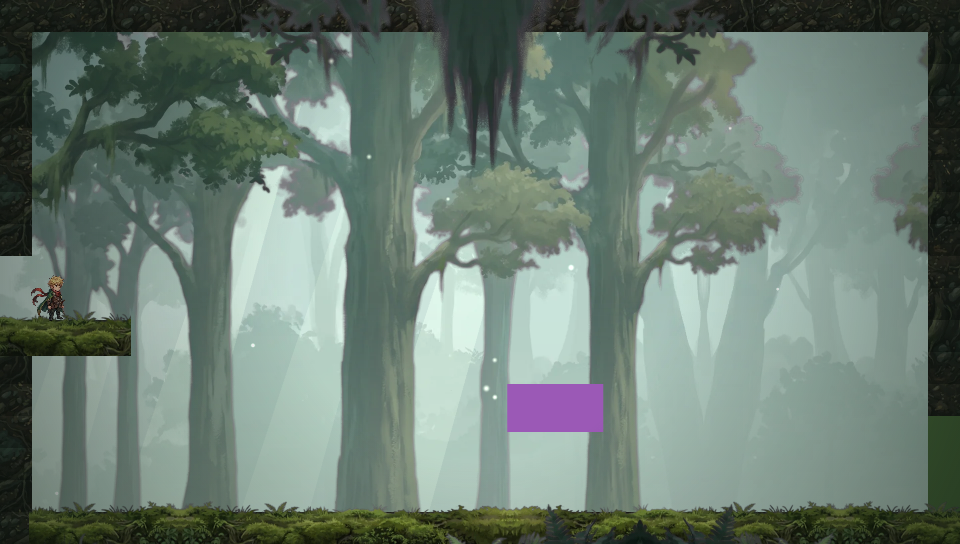
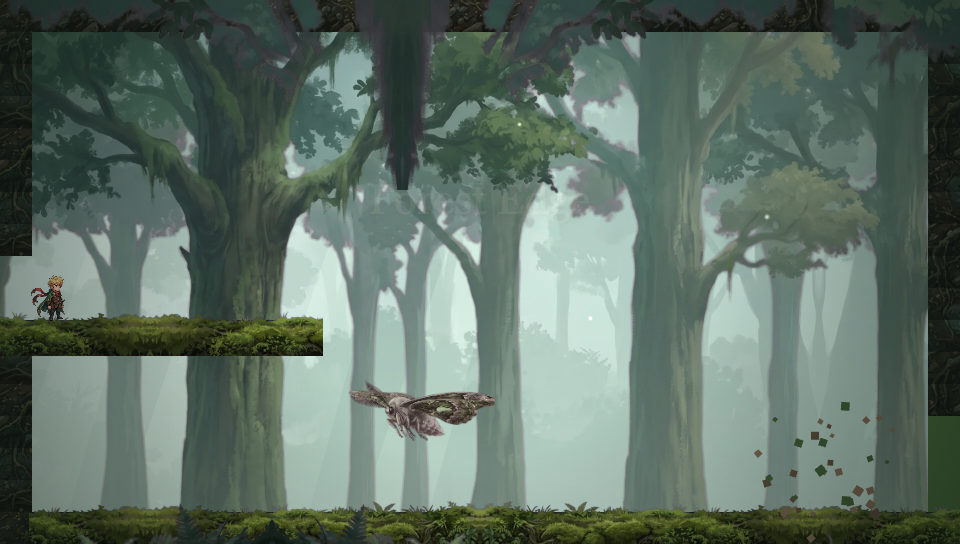
Moth bursts through the right wall; late fight hints wait ~25 deaths; "absorbed" instead of "fed"

diff --git a/game.js b/game.js
@@ -334,7 +334,7 @@ const ROOMS = [
     '#                            V',
     '#             B              V',
     '##############################',
-  ], [150, 94], { world: 1, spots: [[7, 'moth']], deathTalk: { 2: 'dust', 5: 'dust2' } }], // the shaking starts 7 tiles in
+  ], [150, 94], { world: 1, spots: [[7, 'moth']], deathTalk: { 2: 'dust', 25: 'dust2' } }], // the shaking starts 7 tiles in
   ['Into the ruins', [ // World 2 starts here (rooms still to be built)
     '##############################',
     '#                            #',
@@ -676,10 +676,20 @@ class Room extends Phaser.Scene {
       this.time.delayedCall(1600, () => { g.looking = false; });
     }
     if (name === 'shake') this.cameras.main.shake(1400, 0.006);
-    if (name === 'moth' && this.boss?.hidden) { // drops down from the canopy
-      const B = this.boss, y = B.r.y;
-      B.r.setVisible(true).y = y - 300;
-      this.tweens.add({ targets: B.r, y, duration: 700, ease: 'Bounce.easeOut', onComplete: () => { B.hidden = false; } });
+    if (name === 'moth' && this.boss?.hidden) { // bursts in through the right wall, scattering rubble
+      const B = this.boss, x = B.r.x, wall = this.rooms[this.index].rect.right - T;
+      if (!this.textures.exists('rubble'))
+        this.make.graphics({ add: false }).fillStyle(0xffffff).fillRect(0, 0, 6, 6).generateTexture('rubble', 6, 6).destroy();
+      const em = this.add.particles(wall, B.r.y, 'rubble', {
+        speedX: { min: -320, max: -60 }, speedY: { min: -260, max: 60 }, gravityY: 900, lifespan: 1100, rotate: { min: 0, max: 360 },
+        scale: { min: 0.6, max: 1.6 }, tint: [0x5b4a3a, 0x7a6650, 0x3f5a35], emitting: false,
+      }).setDepth(6);
+      em.explode(45);
+      this.time.delayedCall(1300, () => em.destroy());
+      this.cameras.main.shake(450, 0.012);
+      B.dir = -1; // faces into the room
+      B.r.setVisible(true).x = wall + 80;
+      this.tweens.add({ targets: B.r, x, duration: 900, ease: 'Cubic.easeOut', onComplete: () => { B.hidden = false; } });
     }
   }
 

diff --git a/dialogue.js b/dialogue.js
@@ -140,7 +140,7 @@ const SCRIPT = {
     H('annoyed', 'Then tell me!'),
     G('amused', "Where's the fun in that?"),
   ],
-  dust2: [G('thinking', "Your soul caught you over the spikes. Think it'd catch a little dust?")], // 5th death
+  dust2: [G('thinking', "Your soul caught you over the spikes. Think it'd catch a little dust?")], // 25th death (each try costs about two deaths)
   mothDown: [ // the last stomp
     W(0.8),
     H('exhausted', 'Is it… over?'),
@@ -151,8 +151,8 @@ const SCRIPT = {
     H('shouting', 'Whoa— WHOA!'),
     W(0.8),
     H('thinking', 'What… just happened?'),
-    G('thinking', "The amulet fed. Your soul's a little stronger now."),
-    H('scared', 'It FED? On a moth?'),
+    G('thinking', "The amulet absorbed it. Your soul's a little stronger now."),
+    H('scared', 'It ABSORBED it? A whole moth?'),
     G('wry', "It's not picky."),
     H('curious', '…Another mark lit up.'),
     G('thinking', 'Means you can leave two of yourself behind now.'),

diff --git a/docs/STORY.md b/docs/STORY.md
@@ -172,7 +172,7 @@ From here the guide appears only for conversations he's part of: he fades in at 
 > *(The ground shakes.)*  
 > **Hero** [startled]: What's with this shaking… is this an earthquake?  
 > **Guide** [surprised]: Oh shoot, it's been so long that I forgot. Be careful! Watch out for…  
-> *(The moth drops down from above.)*  
+> *(The moth bursts in through the right wall.)*  
 > **Guide** [wry]: …that.
 
 ### 12. The dust — *after his 2nd death in the fight*
@@ -182,7 +182,7 @@ Blocking the dust with your soul should be taught in an earlier room, so the gui
 > **Hero** [annoyed]: Then tell me!  
 > **Guide** [amused]: Where's the fun in that?
 
-*After his 5th death there, one more nudge:*
+*After about 25 deaths there (each try costs about two, since dying heals the moth), one more nudge:*
 > **Guide** [thinking]: Your soul caught you over the spikes. Think it'd catch a little dust?
 
 ### 13. The moth falls — *on the last stomp*
@@ -195,8 +195,8 @@ Blocking the dust with your soul should be taught in an earlier room, so the gui
 > **Hero** [shouting]: Whoa— WHOA!  
 > *(A beat.)*  
 > **Hero** [thinking]: What… just happened?  
-> **Guide** [thinking]: The amulet fed. Your soul's a little stronger now.  
-> **Hero** [scared]: It FED? On a moth?  
+> **Guide** [thinking]: The amulet absorbed it. Your soul's a little stronger now.  
+> **Hero** [scared]: It ABSORBED it? A whole moth?  
 > **Guide** [wry]: It's not picky.  
 > **Hero** [curious]: …Another mark lit up.  
 > **Guide** [thinking]: Means you can leave two of yourself behind now.  
@@ -280,11 +280,11 @@ The wall behind the room is carved; it needs its own background art.
 > *(Its eyes open.)*  
 > **Hero** [scared]: …It's not just a tree.
 
-### 8. The slam — *after his 2nd and 5th deaths in the fight*
+### 8. The slam — *after his 2nd and about his 25th deaths in the fight*
 > **Hero** [shouting]: It smashed me! The other me! It keeps smashing me!  
 > **Guide** [thinking]: Watch where it looks before it swings.
 
-*After the 5th:*
+*After about 25:*
 > **Guide** [thinking]: It always goes for the one closest to you. Use that.
 
 ### 9. The tree falls — *on the last stomp; same staging as the moth*
@@ -365,7 +365,7 @@ The pyramid needs to be visible in the background, its top lost in cloud.
 > **Hero** [determined]: …Okay. Wall first. Then stomps.  
 > **Guide** [warm]: Look at you, with a plan.
 
-### 7. A nudge — *after his 3rd death in the fight*
+### 7. A nudge — *after about 10 deaths in the fight (the beam was taught in the room before)*
 > **Guide** [thinking]: You did this an hour ago. Lead it away.
 
 ### 8. The guide's last stand — *on the last stomp*
